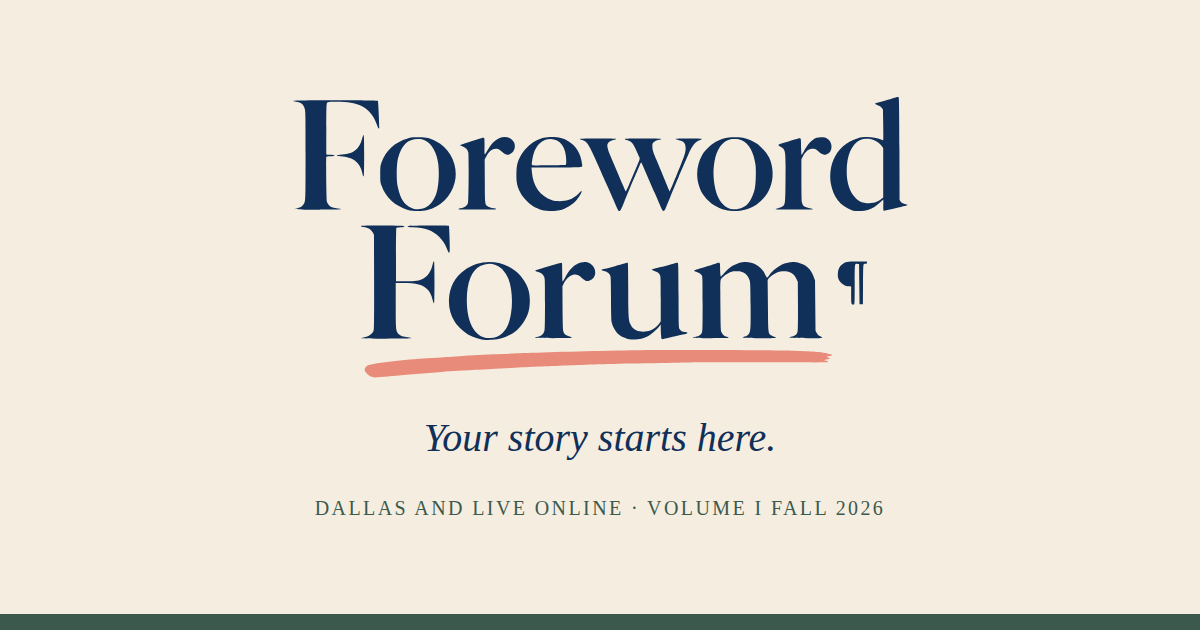
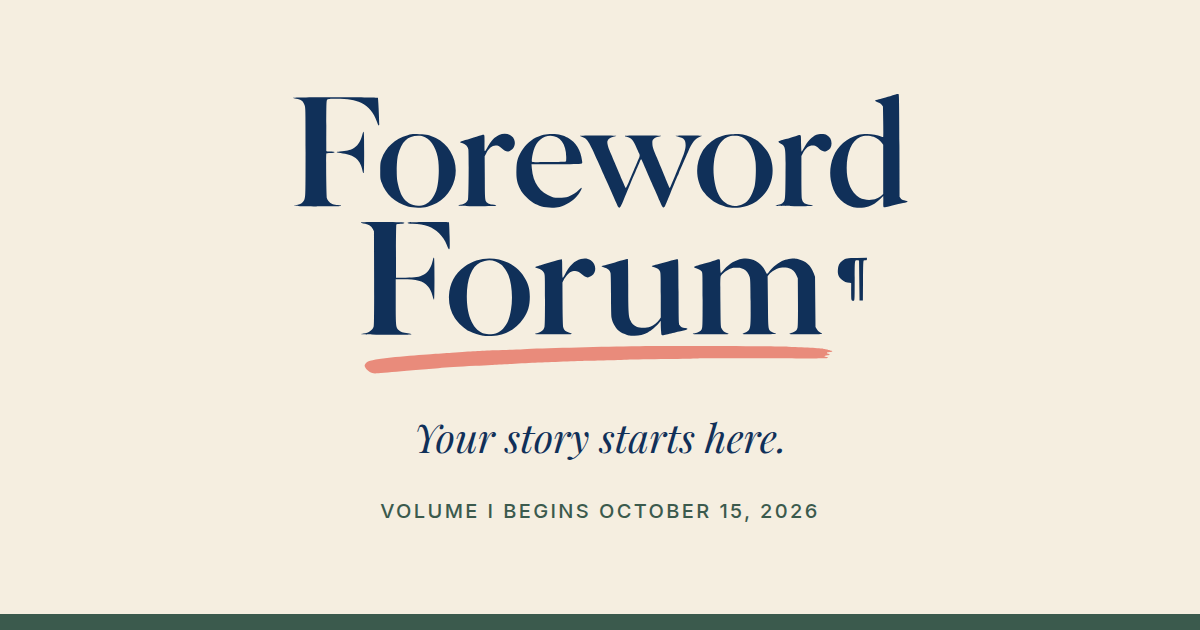
Use the October 15, 2026 start date and clarify seats and First Draft
Replace fall 2026 and opens soon with the Volume I start date across the
home page, About page, metadata and social card. Add how seats are funded
to the Volume I section, and describe what First Draft covers using the
About page copy. Social card now renders in the brand fonts.

Claude-Session: https://claude.ai/code/session_01B4yVKFPJq9w6dReY1nJarT

diff --git a/content/home.ts b/content/home.ts
@@ -7,7 +7,7 @@
  */
 
 export const hero = {
-  label: "Volume I opens fall 2026",
+  label: "Volume I begins October 15, 2026",
   // The word in `swipe` gets the coral highlighter.
   title: { before: "Your ", swipe: "story", after: " starts here." },
   subhead: "College and career readiness for students ages 16 to 22, in Dallas and live online nationwide.",
@@ -30,7 +30,7 @@ export const programs = {
       name: "First Draft",
       kind: "Core readiness track",
       icon: "notePencil",
-      body: "Our core readiness track. Applications, financial aid, essays, resumes, interviews, and the plan behind all of it.",
+      body: "Our core readiness track: college and job applications, essays, resumes, interviews, financial aid and FAFSA, and test prep, plus a plan for what comes after graduation, whether that is a four-year school, a two-year school, a trade, or work.",
     },
     {
       name: "Speak Volumes",
@@ -61,12 +61,14 @@ export const coAuthors = {
 
 export const volumeOne = {
   label: "Volume I",
-  heading: "Our first cohort launches in fall 2026.", // NEW
-  body: "Our first cohort launches in fall 2026, in Dallas and online. Space is intentionally limited. Join the waitlist and we will reach out before enrollment opens.",
+  heading: "Volume I begins October 15.",
+  body: "Our first cohort begins October 15, 2026, in Dallas and online. Space is intentionally limited. Join the waitlist and we will reach out with enrollment details.",
+  funding: "Seats are available through Foreword Forum Prep, and Foreword Forum Foundation funds scholarship seats as funding allows, so cost is not the reason a student sits this out.",
   facts: [
-    { term: "Launches", detail: "Fall 2026" },
+    { term: "Begins", detail: "October 15, 2026" },
     { term: "Where", detail: "Dallas and live online" },
     { term: "Size", detail: "Intentionally limited" },
+    { term: "Seats", detail: "Paid and scholarship" },
   ],
   cta: { label: "Join the waitlist", href: "#waitlist" },
 };

diff --git a/content/about.ts b/content/about.ts
@@ -118,7 +118,7 @@ export const about = {
       id: "what-students-do",
       heading: "What students actually do",
       blocks: [
-        { type: "p", text: "Our first cohort, Volume I, opens soon." },
+        { type: "p", text: "Our first cohort, Volume I, begins October 15, 2026." },
         {
           type: "p",
           text: "Students work through First Draft, the college and career readiness track. It covers the college and job application process, essay writing and revision, financial aid and FAFSA, test preparation, and planning for what comes after graduation, whether that is a four-year school, a two-year school, a trade, or work.",

diff --git a/app/styleguide/page.tsx b/app/styleguide/page.tsx
@@ -132,8 +132,8 @@ export default function StyleguidePage() {
             </Card>
             <Card tone="endpaper">
               <SectionLabel className="mb-3">Volume I</SectionLabel>
-              <Subheading className="mb-3">Launching fall 2026</Subheading>
-              <Body>Space is intentionally limited. Join the waitlist and we will reach out before enrollment opens.</Body>
+              <Subheading className="mb-3">Begins October 15, 2026</Subheading>
+              <Body>Space is intentionally limited. Join the waitlist and we will reach out with enrollment details.</Body>
             </Card>
           </div>
         </Block>

diff --git a/content/site.ts b/content/site.ts
@@ -11,7 +11,7 @@ export const site = {
   email: "hello@forewordforum.com",
   title: "Foreword Forum | College and career readiness in Dallas and online",
   description:
-    "College and career readiness for students ages 16 to 22, in Dallas and live online nationwide. Join the waitlist for Volume I, launching fall 2026.",
+    "College and career readiness for students ages 16 to 22, in Dallas and live online nationwide. Join the waitlist for Volume I, beginning October 15, 2026.",
   location: { city: "Dallas", region: "TX", country: "US" },
 };
 

diff --git a/components/sections/VolumeOne.tsx b/components/sections/VolumeOne.tsx
@@ -12,7 +12,8 @@ export function VolumeOne() {
               <Heading id="volume-title" className="mb-6">
                 {volumeOne.heading}
               </Heading>
-              <Body className="mb-8">{volumeOne.body}</Body>
+              <Body className="mb-4">{volumeOne.body}</Body>
+              <Body className="mb-8">{volumeOne.funding}</Body>
               <ButtonLink href={volumeOne.cta.href} variant="secondary">
                 {volumeOne.cta.label}
               </ButtonLink>

diff --git a/README.md b/README.md
@@ -1,6 +1,6 @@
 # Foreword Forum website
 
-Marketing site for Foreword Forum, a Dallas-based college and career readiness program for students ages 16 to 22. Its main job is collecting waitlist signups for Volume I (fall 2026).
+Marketing site for Foreword Forum, a Dallas-based college and career readiness program for students ages 16 to 22. Its main job is collecting waitlist signups for Volume I, which begins October 15, 2026. Foreword Forum officially launches October 1, 2026.
 
 Built with Next.js (App Router), TypeScript and Tailwind CSS.
 
